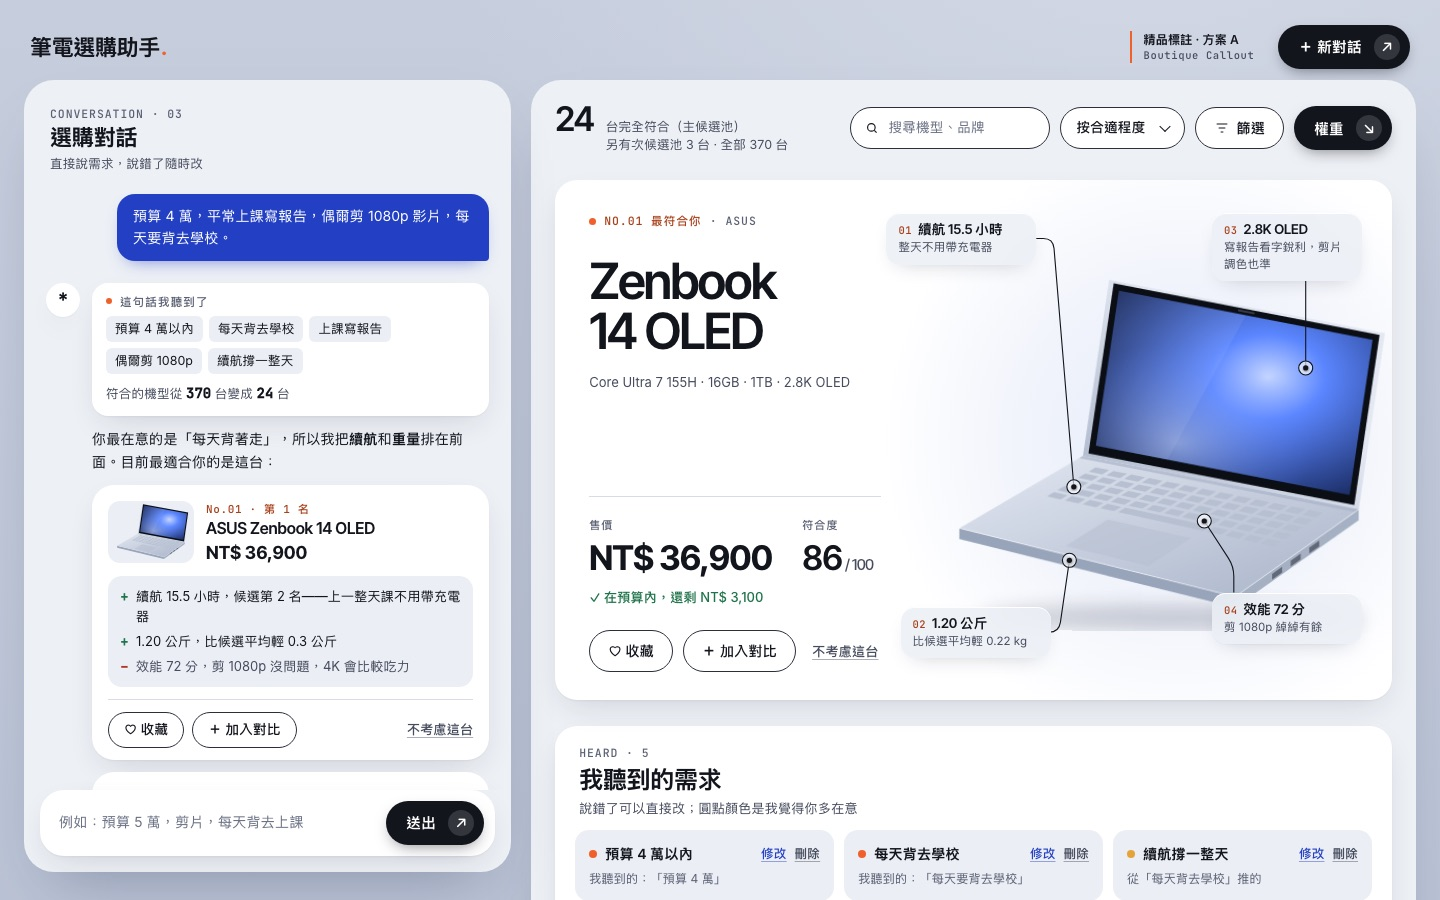
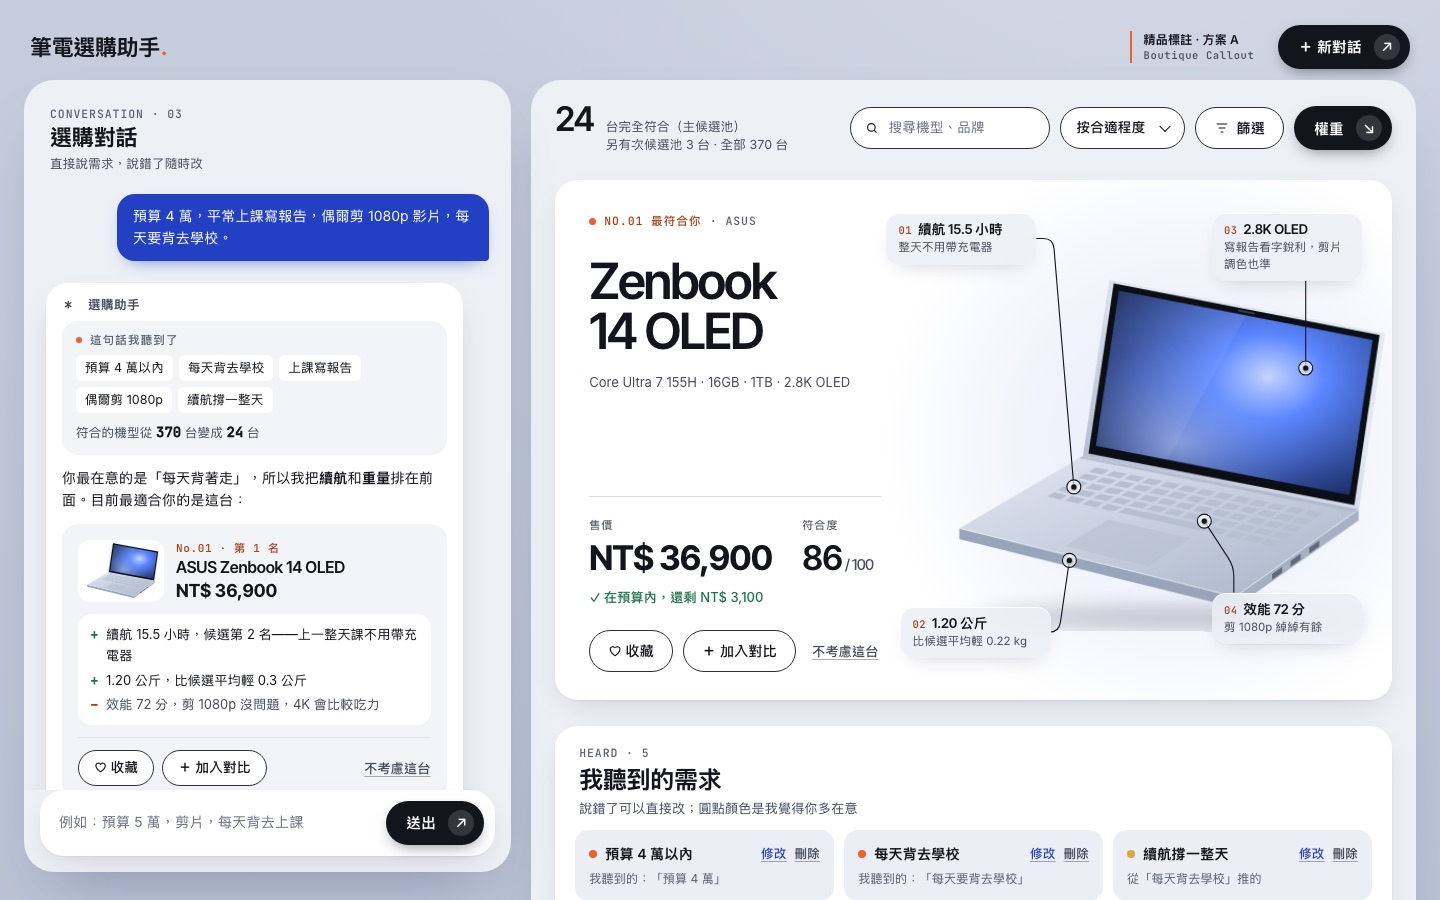
精品標註方案 A：AI 一輪回覆整合成一個泡泡

Changed region(s): [[0.0312, 0.3111, 0.3438, 0.8711], [0.25, 0.7467, 0.3438, 0.8711], [0.3125, 0.5289, 0.3438, 0.6533]]

diff --git a/laptop-style3-gadgets-a.html b/laptop-style3-gadgets-a.html
@@ -364,6 +364,25 @@ input[type=range]:active::-webkit-slider-thumb{transform:scale(1.18)}
 @media (prefers-reduced-motion:reduce){
   *,*::before,*::after{animation:none !important;transition:none !important;scroll-behavior:auto !important}
 }
+
+/* ---------- AI 一輪回覆＝一個泡泡（2026-11-17 M 要求）----------
+   泡泡 = 白底大卡（左下尖角，和右邊藍色用戶泡泡對稱）
+   泡泡內的區塊（聽到了／推薦卡／追問卡）= 淡灰底、無陰影
+   區塊內的小組（優缺點、選項、標籤）= 白底 */
+.ai-row{align-items:flex-end}
+.ai-body{max-width:94%;background:var(--card);border-radius:22px 22px 22px 6px;padding:16px 16px 14px;
+  box-shadow:0 1px 2px rgba(22,30,52,.06),0 16px 36px -14px rgba(22,30,52,.28);gap:12px}
+.ai-ava{display:none}
+.ai-body::before{content:"＊　選購助手";font:600 12.5px/1 var(--display);color:var(--ink-2);letter-spacing:.02em;margin-bottom:-2px}
+.ai-body > .heard,.ai-body > .card{background:#F2F4F8;box-shadow:none;border-radius:16px}
+.ai-body .htag,.ai-body .pc,.ai-body .rec-thumb,.ai-body .ask .note{background:var(--card)}
+.ai-body .opt{background:var(--card)}
+.ai-body .opt:hover{background:var(--card);border-color:var(--ink)}
+.ai-body .opt[aria-pressed="true"]{background:var(--blue-soft);border-color:var(--accent)}
+.ai-body .opt .go{background:#F2F4F8}
+.ai-body .actions{border-top-color:#DFE3EB}
+.ai-body > .fb{margin-top:2px;padding-top:12px;border-top:1px solid var(--line)}
+@media (max-width:600px){.ai-body{padding:13px 12px 12px;border-radius:18px 18px 18px 5px}}
 </style>
 </head>
 <body>

diff --git a/laptop-style3-gallery.html b/laptop-style3-gallery.html
@@ -49,7 +49,7 @@ ul{margin:0;padding-left:20px}
 <p class="lead">M 選了「精品標註」。三個方案都拿掉了 6 個用不到的元素（AI 小提醒、跟第 2 名比、1/2/3 頁碼、右上圓鈕、權重比例色帶、對話紀錄），用戶氣泡改成品牌藍底白字；差別在空出來的位置怎麼用。</p>
 <div class="grid">
 <article class="card"><a class="shot" href="laptop-style3-gadgets-a.html"><img src="img/laptop-styles3/gadgets-a.jpg" alt="方案 A 截圖"></a><div class="body">
-<h2>方案 A：精簡焦點</h2><ul><li>焦點區從約 740px 壓到 520px，像精品店價目牌</li><li>引線標註縮成 4 個更緊湊的</li><li>第一屏看得到焦點區＋我聽到的需求</li></ul>
+<h2>方案 A：精簡焦點</h2><ul><li>焦點區從約 740px 壓到 520px，像精品店價目牌</li><li>引線標註縮成 4 個更緊湊的</li><li>第一屏看得到焦點區＋我聽到的需求</li><li>AI 一輪回覆（聽到了、推薦卡、追問、回饋）裝在同一個泡泡裡</li></ul>
 <a class="go" href="laptop-style3-gadgets-a.html">開啟方案 A →</a></div></article>
 <article class="card"><a class="shot" href="laptop-style3-gadgets-b.html"><img src="img/laptop-styles3/gadgets-b.jpg" alt="方案 B 截圖"></a><div class="body">
 <h2>方案 B：焦點＋權重合一</h2><ul><li>5 條權重滑桿直接放進焦點區，第一屏就能調</li><li>標註跟權重連動：最在意的變黑底放大，不在意的變淡收起</li><li>底部一條排名即時預覽，取代原本獨立的權重區</li></ul>
